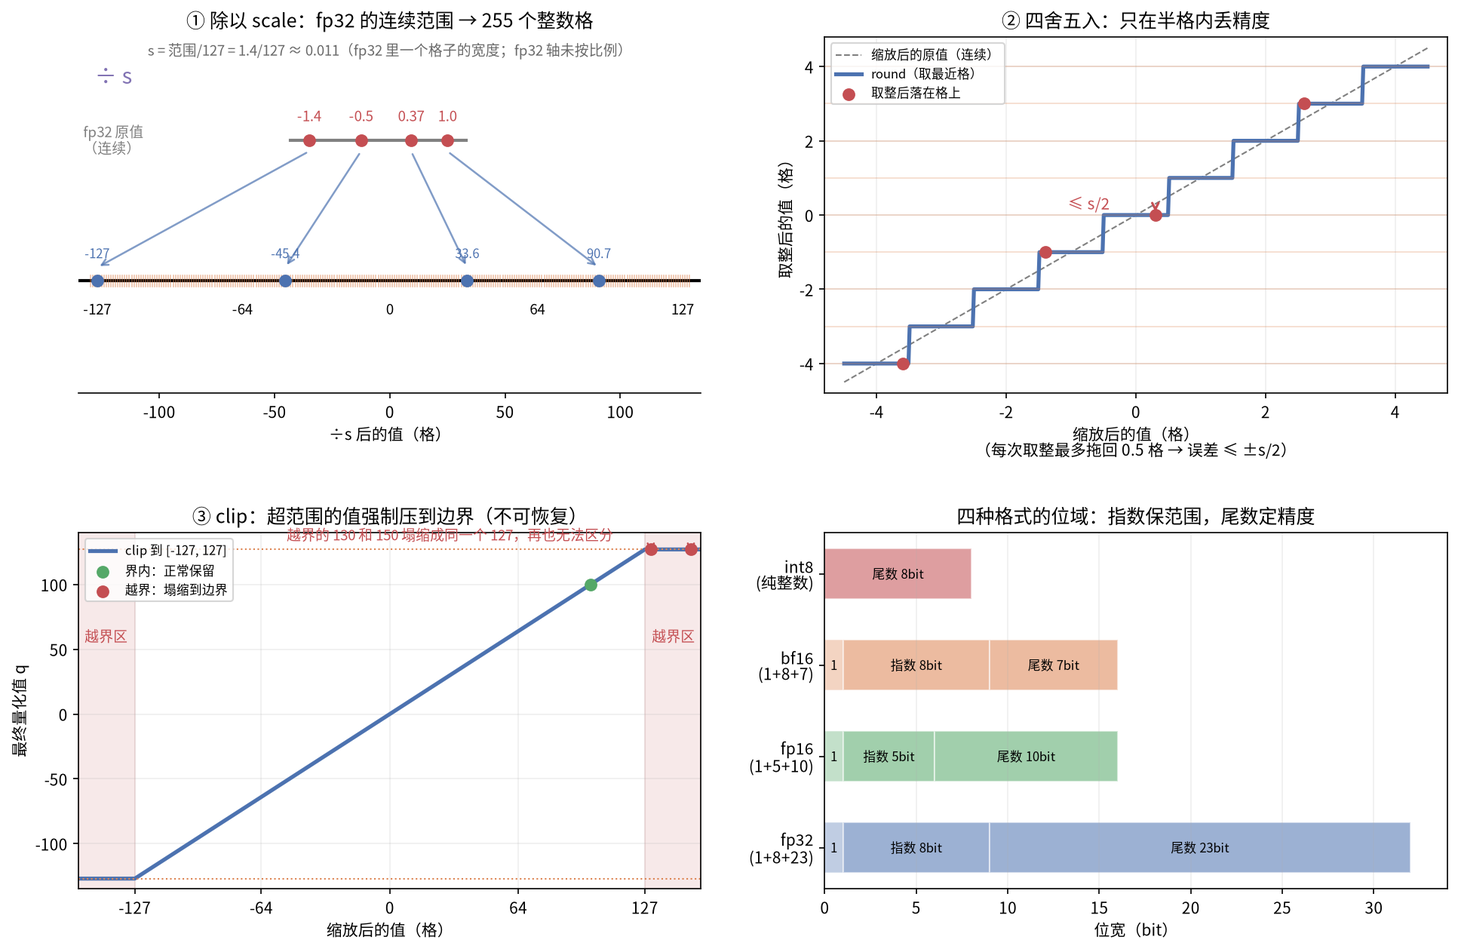
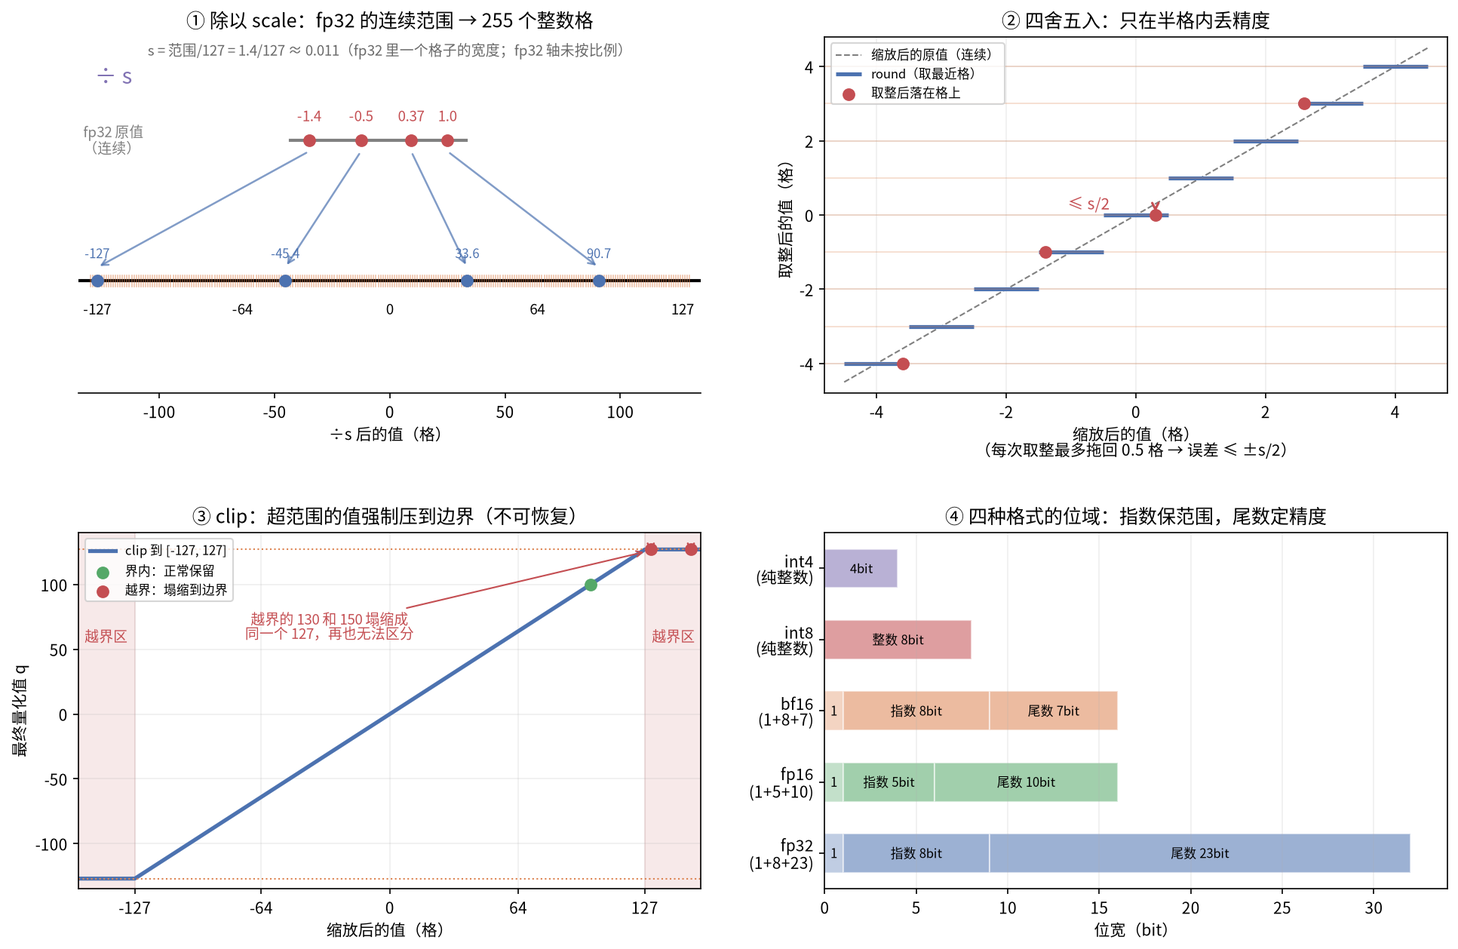
优化文档

diff --git a/src/make_charts.py b/src/make_charts.py
@@ -70,7 +70,9 @@ def quantization_concept():
     ax = axes[0][1]
     xs = np.linspace(-4.5, 4.5, 500)
     ax.plot(xs, xs, "--", color="gray", lw=1, label="缩放后的原值（连续）")
-    ax.plot(xs, np.round(xs), color=C_BLUE, lw=2.5, label="round（取最近格）")
+    for lv in np.arange(-5, 6):  # 只画水平段：跳变处没有中间值，不画纵向连线
+        ax.hlines(lv, lv - 0.5, lv + 0.5, color=C_BLUE, lw=2.5)
+    ax.hlines([], [], [], color=C_BLUE, lw=2.5, label="round（取最近格）")
     for lv in np.arange(-4, 5):
         ax.axhline(lv, color=C_ORANGE, alpha=0.3, lw=0.8)
     samples = np.array([-3.6, -1.4, 0.3, 2.6])
@@ -96,7 +98,9 @@ def quantization_concept():
     for xx in (130, 150):
         ax.annotate("", xy=(xx, 125.2), xytext=(xx, 127.8),
                     arrowprops=dict(arrowstyle="->", color=C_RED, lw=1.2))
-    ax.text(30, 134, "越界的 130 和 150 塌缩成同一个 127，再也无法区分", fontsize=9, color=C_RED, ha="center")
+    ax.annotate("越界的 130 和 150 塌缩成\n同一个 127，再也无法区分",
+                xy=(128, 125.5), xytext=(-30, 58), ha="center", fontsize=9, color=C_RED,
+                arrowprops=dict(arrowstyle="->", color=C_RED, lw=1))
     ax.text(-152, 60, "越界区", fontsize=9, color=C_RED, va="center")
     ax.text(152, 60, "越界区", fontsize=9, color=C_RED, va="center", ha="right")
     ax.set_xlim(-155, 155); ax.set_ylim(-135, 140)
@@ -108,17 +112,21 @@ def quantization_concept():
     # (1,1) 四种格式的位域划分（保留原右图）
     ax = axes[1][1]
     dtypes = [("fp32\n(1+8+23)", 1, 8, 23, C_BLUE), ("fp16\n(1+5+10)", 1, 5, 10, C_GREEN),
-              ("bf16\n(1+8+7)", 1, 8, 7, C_ORANGE), ("int8\n(纯整数)", 0, 0, 8, C_RED)]
+              ("bf16\n(1+8+7)", 1, 8, 7, C_ORANGE), ("int8\n(纯整数)", 0, 0, 8, C_RED),
+              ("int4\n(纯整数)", 0, 0, 4, C_PURPLE)]
     for i, (name, sign, exp, man, color) in enumerate(dtypes):
         x0 = 0
+        is_int = name.startswith("int")
         for bits, lab, c in ((sign, "符号", color), (exp, "指数", color), (man, "尾数", color)):
             if bits:
+                label = (f"整数 {bits}bit" if bits >= 8 else f"{bits}bit") if is_int \
+                    else (f"{lab} {bits}bit" if bits >= 5 else f"{bits}")
                 ax.barh(i, bits, left=x0, height=0.55, color=c, alpha=0.35 + 0.2 * (lab != "符号"), edgecolor="white")
-                ax.text(x0 + bits / 2, i, f"{lab} {bits}bit" if bits >= 5 else f"{bits}", ha="center", va="center", fontsize=8)
+                ax.text(x0 + bits / 2, i, label, ha="center", va="center", fontsize=8)
             x0 += bits
-    ax.set_yticks(range(4)); ax.set_yticklabels([d[0] for d in dtypes])
+    ax.set_yticks(range(len(dtypes))); ax.set_yticklabels([d[0] for d in dtypes])
     ax.set_xlim(0, 34); ax.set_xlabel("位宽（bit）")
-    ax.set_title("四种格式的位域：指数保范围，尾数定精度")
+    ax.set_title("④ 四种格式的位域：指数保范围，尾数定精度")
     ax.grid(alpha=0.2, axis="x")
     fig.tight_layout(h_pad=3.0, w_pad=3.0)
     save(fig, "quantization_concept.png")
@@ -126,29 +134,50 @@ def quantization_concept():
 
 # ---------- 2. 动态 vs 静态量化工作流 ----------
 def dynamic_vs_static():
-    fig, axes = plt.subplots(1, 2, figsize=(13, 4.8))
-    for ax, title, steps, colors in (
-        (axes[0], "动态量化（无需校准数据）",
-         ["fp32 模型", "权重→int8\n（离线一次）", "推理时：\n激活 fp32\n→ 动态量化", "int8 GEMM\n→ 反量化"],
-         [C_BLUE, C_ORANGE, C_GREEN, C_RED]),
-        (axes[1], "静态量化（需校准数据）",
-         ["fp32 模型", "校准：喂 N 张图\n统计每层激活范围", "权重+激活 scale\n→ 全部写死 int8", "推理时：\n全程 int8"],
-         [C_BLUE, C_PURPLE, C_ORANGE, C_GREEN]),
-    ):
+    from matplotlib.patches import FancyBboxPatch
+    fig, axes = plt.subplots(1, 2, figsize=(13.5, 6.4))
+    fig.tight_layout(w_pad=4.0)
+    specs = [
+        ("动态量化", "无需校准数据",
+         "仅权重 → int8\n（s_w = max|W|/127 写死；激活的 scale 此步不定）",
+         "激活 fp32 进 → 现场统计范围 s_x\n→ int8 GEMM → 反量化回 fp32 出",
+         "优点：零校准数据，s_x 实时贴合输入\n缺点：激活仍是 fp32，层间传输没省\n只支持 Linear（Conv 支持弱），收益小",
+         2),
+        ("静态量化", "需校准数据",
+         "校准：喂 N 张无标签图，统计每层激活范围\n权重 + 激活的 scale 都写死（激活部分是关键差异）",
+         "激活 int8 进 → int8 GEMM → requantize\n→ int8 出（全程整数，不经浮点）",
+         "优点：全程 int8，最快最小；Conv 也量化\n缺点：校准分布必须与真实输入一致\n（错配会掉精度，见 01 · 第 6 节）",
+         1),
+    ]
+    for ax, (name, sub, off_text, infer_text, note, hi) in zip(axes, specs):
         ax.set_xlim(0, 10); ax.set_ylim(0, 10); ax.axis("off")
-        ax.set_title(title, fontsize=13, pad=10)
-        bw, bh = 4.2, 1.6
-        positions = [(0.6, 8), (5.2, 8), (0.6, 4.6), (5.2, 4.6)]
-        for (px, py), text, c in zip(positions, steps, colors):
-            ax.add_patch(plt.Rectangle((px, py - bh / 2), bw, bh, facecolor=c, alpha=0.18, edgecolor=c, lw=2))
-            ax.text(px + bw / 2, py, text, ha="center", va="center", fontsize=9.5)
-        arrows = [((2.8, 8), (5.2, 8)), ((7.3, 8), (7.3, 4.6 + bh / 2 + 0.15)), ((5.2, 4.6), (2.8, 4.6))]
-        for (x1, y1), (x2, y2) in arrows:
-            ax.annotate("", xy=(x2, y2), xytext=(x1, y1), arrowprops=dict(arrowstyle="->", color="gray", lw=1.6))
-        note = "优点：简单/精度稳\n缺点：激活仍是 fp32\nConv 支持弱，体积/速度收益小" if title.startswith("动态") else \
-               "优点：全程 int8，最快最小\n缺点：需代表性校准集\n（校不准会掉精度）"
-        ax.text(5, 1.6, note, ha="center", va="center", fontsize=10, color="#333",
-                bbox=dict(boxstyle="round", facecolor="#f5f5f5", edgecolor="#ccc"))
+        ax.set_title(f"{name}（{sub}）", fontsize=13, pad=10)
+        bw, x0 = 7.0, 2.5
+        rows = [("模型", 8.9, 1.0, "fp32 模型", C_BLUE),
+                ("离线\n（一次性）", 6.2, 1.8, off_text, C_ORANGE),
+                ("推理\n（每次前向）", 3.2, 1.9, infer_text, C_GREEN)]
+        for label, y, h, text, c in rows:
+            ax.text(0.2, y, label, fontsize=10, color="dimgray", fontweight="bold",
+                    ha="left", va="center")
+            w = 3.4 if label == "模型" else bw
+            bx = 5.5 - w / 2
+            ax.add_patch(FancyBboxPatch((bx, y - h / 2), w, h, boxstyle="round,pad=0.08",
+                                        facecolor=c, alpha=0.16, edgecolor=c, lw=1.8))
+            ax.text(bx + w / 2, y, text, ha="center", va="center", fontsize=9.8)
+        for y1, y2 in ((8.4, 7.15), (5.25, 4.2)):
+            ax.annotate("", xy=(5.5, y2), xytext=(5.5, y1),
+                        arrowprops=dict(arrowstyle="->", color="gray", lw=1.8))
+        if hi is not None:  # 高亮「激活 scale 在哪一步确定」——两者本质区别
+            label, y, h, text, c = rows[hi]
+            ax.add_patch(FancyBboxPatch((5.5 - bw / 2 - 0.28, y - h / 2 - 0.28), bw + 0.56, h + 0.56,
+                                        boxstyle="round,pad=0.08", fill=False,
+                                        edgecolor=C_RED, ls="--", lw=1.7))
+            ax.text(5.5, y + h / 2 + 0.66, "★ 激活 scale 在这一步确定",
+                    ha="center", fontsize=10, color=C_RED, fontweight="bold",
+                    bbox=dict(boxstyle="round,pad=0.25", facecolor="white", edgecolor=C_RED, lw=1))
+        ax.text(5.0, 1.05, note, ha="center", va="center", fontsize=9.5, color="#333",
+                linespacing=1.5,
+                bbox=dict(boxstyle="round", facecolor="#f7f7f7", edgecolor="#ccc"))
     save(fig, "dynamic_vs_static.png")
 
 

diff --git a/docs/02_hardware.md b/docs/02_hardware.md
@@ -1,7 +1,7 @@
 # 02 · 硬件架构：为什么同一模型在不同硬件上快慢差 40 倍
 
 > **学习目标**：理解 CPU 和 GPU 分别怎么算神经网络、指令集是什么、为什么同一精度在不同硬件上速度差 40 倍，以及部署前如何检查目标硬件。
-> **前置知识**：读完 [01 · 量化入门](./01_quantization_basics.md)（认识 fp32/int8/bf16 等精度格式）；专业词随时查 [00 · 术语速查表](./00_glossary.md)。
+> **前置知识**：读完 [01 · 量化入门](./01_quantization_basics.md)（认识 fp32/int8/bf16 等精度格式）。
 > **本篇不覆盖**：这些速度数字是怎么测出来的（[03 · 如何读懂性能数据](./03_reading_benchmarks.md)）。
 >
 > 核心结论一句话：**精度格式的实际速度取决于硬件是否为它提供原生执行单元，软件只是把硬件能力翻译出来。** 深水区内容集中在文末「**进一步学习**」一节，初学可跳过，不影响主线。
@@ -33,16 +33,16 @@
 
 ## 2. CPU 上发生了什么
 
-CPU 做神经网络计算，靠的是 **SIMD 向量指令**：一条指令同时处理多个数据。
+CPU 做神经网络计算，靠的是 **[SIMD](./00_glossary.md) 向量指令**：一条指令同时处理多个数据。
 
 - `AVX2`：256 位宽向量寄存器 → 一条指令做 8 个 fp32 加/乘；
 - `FMA`：乘加融合，一条指令完成 a×b+c；
-- `AVX_VNNI`：int8 点积专用，一条指令完成 4 组 8-bit 乘加（`vpdpbusd`）——int8 乘加主体走 VNNI，requantize/裁剪/搬移等辅助运算仍走 AVX2，两者配合构成完整 int8 推理路径；
+- `AVX_VNNI`：int8 点积专用，一条指令完成 4 组 8-bit 乘加（`vpdpbusd`）——int8 乘加主体走 VNNI，[requantize](./00_glossary.md)/裁剪/搬移等辅助运算仍走 AVX2，两者配合构成完整 int8 推理路径；
 - `AVX512-BF16` / `AMX`：bf16 向量运算 / 瓦片矩阵乘——**本机没有**。
 
 **为什么 bf16 在 CPU 上慢 40 倍**（22.4 vs 0.573 ms）：
 
-1. 没有 bf16 执行单元 → oneDNN 检测后走**仿真路径**：bf16 → fp32 转换 → fp32 计算 → 转回 bf16。运算量一点没省，还多了两次转换；
+1. 没有 bf16 执行单元 → [oneDNN](./00_glossary.md) 检测后走**仿真路径**：bf16 → fp32 转换 → fp32 计算 → 转回 bf16。运算量一点没省，还多了两次转换；
 2. **batch=1 时固定开销占满延迟**：每层计算只要几十微秒，但每次 forward 都要把几 MB 权重转一遍 dtype，这套开销不变——计算越少，转换占比越高；
 3. fp32 路径有十几年优化（寄存器分块、缓存预取）+ 4.8 GHz 高频，本来就极快。
 
@@ -54,16 +54,16 @@ CPU 做神经网络计算，靠的是 **SIMD 向量指令**：一条指令同时
 
 ## 3. GPU 上发生了什么
 
-GPU 靠**海量并行**：3,584 个 CUDA 核心同时算不同数据，矩阵乘还有专用的 **Tensor Core**（矩阵乘加速单元）。
+GPU 靠**海量并行**：3,584 个 [CUDA 核心](./00_glossary.md)同时算不同数据，矩阵乘还有专用的 **[Tensor Core](./00_glossary.md)**。
 
-**为什么 bf16 在 GPU 上快一倍**（0.266 vs 0.564 ms）：RTX 3060 的第三代 Tensor Core 原生支持 BF16 矩阵乘，PyTorch 的 `autocast(bf16)`（自动混合精度开关，见术语表）把 conv/GEMM 分派给 Tensor Core，吞吐直接翻倍。batch=256 时计算量大，转换开销摊薄可忽略。
+**为什么 bf16 在 GPU 上快一倍**（0.266 vs 0.564 ms）：RTX 3060 的第三代 Tensor Core 原生支持 BF16 矩阵乘，PyTorch 的 [`autocast(bf16)`](./00_glossary.md) 把 conv/[GEMM](./00_glossary.md) 分派给 Tensor Core，吞吐直接翻倍。batch=256 时计算量大，转换开销摊薄可忽略。
 
 **为什么 TRT bf16 只有 TRT fp16 一半**（约 110k vs 320k 条/秒）——本机 GPU 上最有意思的结果：
 
 ![GPU 吞吐对比](../assets/speed_gpu_bar.png)
 
 - **硬件层面的直接原因**：Tensor Core 是固定功能电路，吞吐由芯片设计决定。Ampere 白皮书对 GA10x（RTX 3060 的 GA106 属于此系）的配置是：每个 SM 每 clock 的 FP16 Tensor 吞吐 256 FMA，**BF16 Tensor 吞吐 128 FMA——物理上只有一半的乘法阵列**。TRT 实测 bf16 kernel 比 fp16 慢，反映的就是这个电路比值，不是软件没调优。
-- **为什么厂商这么配：市场定位**。fp16 是消费卡的主场（游戏光影、DLSS、创作渲染都以 fp16 为主力），所以 GA10x 给 fp16 配满吞吐；bf16 存在的理由是深度学习训练（指数位与 fp32 相同不溢出），训练发生在数据中心卡上——A100 的 FP16 与 BF16 Tensor 吞吐完全相等（都是 312 TFLOPS，即每秒 3×10^14 次浮点运算），消费卡则作为产品分层"能跑但减半"（A100 当时卖 1 万多美元，RTX 3060 卖 300 多）。
+- **为什么厂商这么配：市场定位**。fp16 是消费卡的主场（游戏光影、DLSS、创作渲染都以 fp16 为主力），所以 GA10x 给 fp16 配满吞吐；bf16 存在的理由是深度学习训练（指数位与 fp32 相同不溢出），训练发生在数据中心卡上——A100 的 FP16 与 BF16 Tensor 吞吐完全相等（都是 312 [TFLOPS](./00_glossary.md)），消费卡则作为产品分层"能跑但减半"（A100 当时卖 1 万多美元，RTX 3060 卖 300 多）。
 - **bf16 的速度谱系（取决于硬件是否把它当一等公民）**：
 
 | 硬件 | bf16 vs fp16 | 原因 |
@@ -74,13 +74,13 @@ GPU 靠**海量并行**：3,584 个 CUDA 核心同时算不同数据，矩阵乘
 
 - 结论：**bf16 的价值在训练（不溢出）和数据中心卡（吞吐对齐）；消费级 GPU 推理选 fp16 永远不会吃亏**（要么更快要么持平）。
 
-**为什么 TensorRT 比 PyTorch eager 快 30-100 倍**（1.8k → 10 万+ 条/秒）——差距不在精度在执行方式（算子 = Conv/ReLU 这类基本计算单元，kernel = GPU 上预编译好的并行计算程序；术语见 [00 · 术语表](./00_glossary.md)）：
+**为什么 TensorRT 比 PyTorch eager 快 30-100 倍**（1.8k → 10 万+ 条/秒）——差距不在精度在执行方式：
 
 ![eager vs TRT 时间线](../assets/precision_timeline.png)
 
 | 提速来源 | eager 的问题 | TRT 的做法 | 收益 |
 |---|---|---|---|
-| 无 Python 分发 | 每个 op 走一次 Python→C++ 分发，小模型单层计算只要几微秒，分发占比 >80% | 引擎是编译好的 CUDA kernel 序列，一次调用执行整图 | 消除调度开销 |
+| 无 Python 分发 | 每个 [op（算子）](./00_glossary.md)走一次 Python→C++ 分发，小模型单层计算只要几微秒，分发占比 >80% | 引擎是编译好的 CUDA [kernel](./00_glossary.md) 序列，一次调用执行整图 | 消除调度开销 |
 | 算子融合 | Conv/BN/ReLU 每层单独执行，中间结果反复读写显存 | Conv+BN+ReLU 融合成一个 kernel | 消除中间显存读写 |
 | kernel 自动调优 | 通用 kernel，不针对具体 GPU 形状 | 构建期对本机 GPU 实测几十种实现选最快 | 针对 28 个 SM 精调 |
 
@@ -154,7 +154,7 @@ GPU 靠**海量并行**：3,584 个 CUDA 核心同时算不同数据，矩阵乘
 
 ### 为什么是"24 位 × 24 位 → 48 位"？fp32 不是 32 位吗
 
-32 位是**存储信封**的大小（1 符号 + 8 指数 + 23 尾数）；乘法真正作用于**尾数的 24 位有效精度**（23 位 + 规格化隐含首位）。指数只决定小数点位置——相乘时指数直接相加，不占尾数。十进制类比（假设尾数只存 3 位）：
+32 位是**存储信封**的大小（1 符号 + 8 指数 + 23 尾数）；乘法真正作用于**尾数的 24 位有效精度**（23 位 + 规格化隐含首位——为什么隐含首位存在，见 [01 · 第 1 节](./01_quantization_basics.md)）。指数只决定小数点位置——相乘时指数直接相加，不占尾数。十进制类比（假设尾数只存 3 位）：
 
 ```
 a = 3.14 × 10^2，b = 2.72 × 10^1

diff --git a/docs/00_glossary.md b/docs/00_glossary.md
@@ -8,7 +8,7 @@
 | 术语 | 白话解释 |
 |---|---|
 | 位 / 位宽 | 计算机存储数字用的「格子数」。8 位 = 8 个格子，每个格子只能放 0 或 1，所以 8 位能表达 2⁸ = 256 种状态 |
-| 浮点数（fp） | 二进制版的科学计数法：不把数存成一长串 0/1，而是拆成「正负号 + 指数（管数量级）+ 尾数（管有效数字）」三段存——就像 3.14×10² = 符号 + 指数 2 + 尾数 3.14 |
+| 浮点数（fp） | 二进制版的科学计数法：不把数存成一长串 0/1，而是拆成「正负号 + 指数（管数量级）+ 尾数（管有效数字）」三段存——就像 3.14×10² = 符号 + 指数 2 + 尾数 3.14。二进制规范化后整数部分恒为 1、不用存（隐含首位），所以 23 位尾数实际有 24 位有效精度 |
 | 符号位 | 三段里的第一段，1 个格子，只记正负 |
 | 指数位 | 三段里的第二段，决定这个数「有多大/多小」（数量级）。指数位越多，能表示的范围越大 |
 | 尾数位 | 三段里的第三段，决定这个数「有多少位有效数字」。尾数位越多，精度越高 |
@@ -24,7 +24,7 @@
 | 术语 | 白话解释 |
 |---|---|
 | 权重 | 模型里学出来的可调数字（矩阵/张量）。200 万参数的模型 = 200 万个权重数字 |
-| 激活 | 每层的输出数据。权重是「算法规则」，激活是「流过网络的数据」；静态量化要统计的就是每层激活的范围 |
+| 激活 | 每层算完、流向下一层的中间数据。权重是「加工规则」（存死不变），激活是「正在被加工的料」（每来一张图都现算、都不同）：像素 → 第 1 层激活 → 第 2 层激活 → … → 分类分数。**注意激活 ≠ 数据集**：数据集是喂进模型的原料（只有输入一个位置），激活是原料经每层加工的中间产物（一张图会产生几十层各不相同的激活，每层范围不同、各配各的 scale）。静态量化要统计的就是每层激活的范围 |
 | Conv（卷积层） | 处理图像的基本层：用小窗口在图上滑动扫描特征（如边缘、笔画） |
 | Linear（全连接层） | 最普通的矩阵乘层：把上一层所有数字加权组合成下一层输入 |
 | BN（BatchNorm） | 批归一化层：给每层数据拉回稳定的均值/方差。内部统计量（running_mean/var）对精度敏感，量化时永远保留 fp32 |
@@ -42,7 +42,7 @@
 | 量化 | 把 fp32 的数字换成更短的格式（int8/int4）存和算，换体积和速度（详见 [01 · 第 1 节](./01_quantization_basics.md)） |
 | 反量化 | 量化值 × scale 还原回浮点数 |
 | requantize | 不经浮点、直接从「上一层的 int8」换算成「下一层的 int8」，让整条链路保持整数 |
-| scale（缩放系数） | 浮点范围和整数格之间的「汇率」。量化 = 除以它，反量化 = 乘回它 |
+| scale（缩放系数） | 浮点范围和整数格之间的「汇率」。量化 = 除以它，反量化 = 乘回它。scale 既不是激活也不是权重——它是量化附带的换算参数，与权重一起存进模型文件 |
 | zero-point | 非对称量化额外存的「零点偏移」：标定浮点 0 对应哪个整数值 |
 | 校准 | 喂几百~几千张代表性数据，统计每层激活的范围，从而定下 scale。只做统计，不训练 |
 | fake-quant | 量化感知训练时插进模型的「假装量化」节点：前向按量化值算（让权重提前适应取整误差），反向仍用浮点更新权重 |
@@ -76,5 +76,6 @@
 | oneDNN / FBGEMM | CPU 深度学习算子库（Intel 出品 / Meta 出品），PyTorch CPU 量化的底层实现。只支持 CPU，没有 GPU 版 |
 | ONNX | 模型的通用交换格式：从 PyTorch 导出成 .onnx 文件，才能喂给 TensorRT 等部署引擎 |
 | TensorRT（TRT） | NVIDIA 的推理引擎：把整图编译成优化的 kernel 序列，比 PyTorch eager 快 30-100 倍（详见 [02 · GPU 上发生了什么](./02_hardware.md)） |
+| 强类型引擎 | TensorRT 构建时就锁死输入输出数据类型（如 fp16 引擎的输入必须是 HALF）、运行时不可更改的引擎 |
 | torchao | PyTorch 官方的量化工具包，提供 int8/int4 weight-only 量化（权重低精度、激活保持 bf16） |
 | torch.compile | PyTorch 的图编译开关：把 eager 模式编译成更快的执行图，CPU 上约 15-40% 提速 |

diff --git a/docs/03_reading_benchmarks.md b/docs/03_reading_benchmarks.md
@@ -4,7 +4,7 @@
 > **前置知识**：读完 [01 · 量化入门](./01_quantization_basics.md)（理解延迟数字背后的模型差异）；建议读过 [02 · 硬件架构](./02_hardware.md)（理解为什么同一数字换机器就变）。
 > **本篇不覆盖**：具体实验数据——全部数据见 [04 · 完整实验结果](./04_results.md)，本篇只教「怎么读、怎么测」。
 >
-> 本项目的基准测试走了不少弯路（修了 4 个 bug 才拿到可信数据），这篇把这些坑和正确的测量方法讲清楚。专业词随时查 [00 · 术语速查表](./00_glossary.md)。
+> 本项目的基准测试走了不少弯路（修了 4 个 bug 才拿到可信数据），这篇把这些坑和正确的测量方法讲清楚。
 
 ## 1. 三类基本指标
 
@@ -48,15 +48,15 @@ elapsed = time.perf_counter() - t0
 # 3) 多轮取分位数而非单次
 ```
 
-三个细节：GPU 计时**先同步再掐表**；batch 越大迭代次数越少（控制总时长）；CPU 上混合架构（P/E 核）会导致波动，多轮测量取分位数。预热丢弃的是 JIT（即时编译——第一次运行才把代码编译成机器码，所以前几次特别慢）等一次性开销。
+三个细节：GPU 计时**先同步再掐表**；batch 越大迭代次数越少（控制总时长）；CPU 上混合架构（P/E 核）会导致波动，多轮测量取分位数。预热丢弃的是 [JIT](./00_glossary.md) 等一次性开销。
 
 ## 4. 本项目踩过的 4 个 bug（都是真实的坑）
 
 **bug 1：bf16 模型把 BatchNorm 也转了**。BN 的 running_mean/var 对精度敏感，且与保留 fp32 的相邻层 dtype 不匹配直接报错。教训：**BN 永远保留 fp32**。
 
-**bug 2：TRT fp16 引擎喂了 fp32 输入**。强类型引擎（构建时就锁死输入输出数据类型、不允许运行时改变的引擎）的输入输出 dtype 必须与引擎声明一致（fp16 引擎是 HALF），喂 fp32 导致精度静默丢失——准确率 99% → 54%，不报错、只掉精度，最危险的 bug。教训：**按引擎声明的 IO dtype 动态适配输入输出**。
+**bug 2：TRT fp16 引擎喂了 fp32 输入**。[强类型引擎](./00_glossary.md)的输入输出 dtype 必须与引擎声明一致（fp16 引擎是 HALF），喂 fp32 导致精度静默丢失——准确率 99% → 54%，不报错、只掉精度，最危险的 bug。教训：**按引擎声明的 IO dtype 动态适配输入输出**。
 
-**bug 3：QDQ 节点插到图最前面**。激活 Quantize 节点的输入是中间层输出，放最前面破坏拓扑序（模型图的执行顺序：必须先算出数据、才能执行消费它的节点），ONNX checker 直接拒绝。教训：**QDQ 必须插在消费节点之前**（就地重建节点序列）。
+**bug 3：[QDQ](./00_glossary.md) 节点插到图最前面**。激活 Quantize 节点的输入是中间层输出，放最前面破坏[拓扑序](./00_glossary.md)，ONNX checker 直接拒绝。教训：**QDQ 必须插在消费节点之前**（就地重建节点序列）。
 
 **bug 4：torchao int4 的 dtype 链路 bug**。zero_point 硬编码 bf16 与 scale fp32 冲突报错；统一成 fp32 又会被 kernel 误读（输出全错）。教训：**遇到版本组合 bug，用单层最小例子隔离**——我们用单层 Linear 的余弦相似度（0.998）确认数学正确，才定位到是打包格式问题。
 
